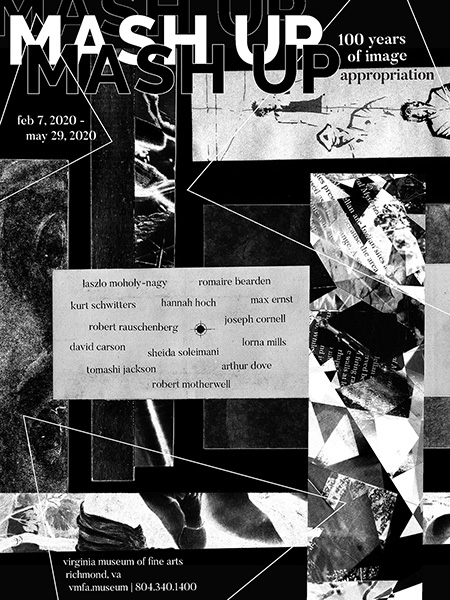
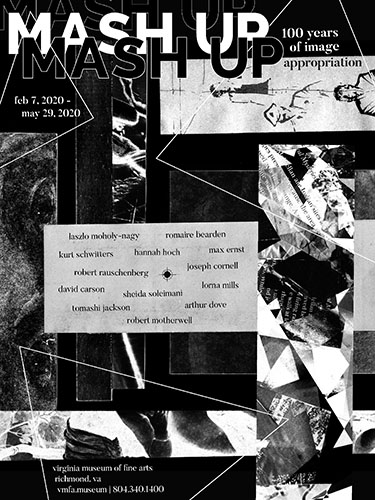
heheh

diff --git a/work.html b/work.html
@@ -138,7 +138,7 @@
       <a href="#">
         <div class="proj">
           <div class="image">
-            <img src="img/mashup/poster.jpg"/>
+            <img src="img/mashup/small.jpg"/>
           </div>
           <div class="text">
             <div class="titledate">
